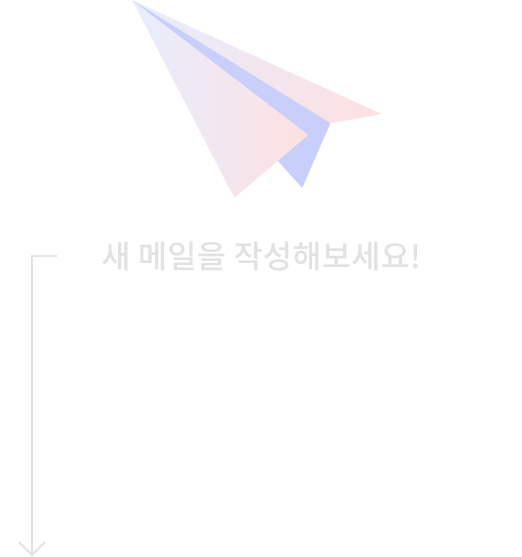
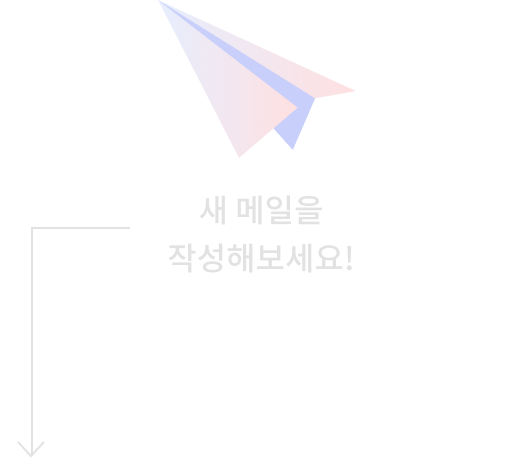
feat:업데이트 다운로드 진행 화면 추가

diff --git a/App.js b/App.js
@@ -14,6 +14,7 @@ import SplashScreen from 'react-native-splash-screen';
 import {MenuProvider} from 'react-native-popup-menu';
 import {QueryClient, QueryClientProvider} from 'react-query';
 import codePush from 'react-native-code-push';
+import FastImage from 'react-native-fast-image';
 
 import {
   notificationListener,
@@ -24,6 +25,8 @@ import AppContext from './AppContext';
 import Root from './navigation/Root';
 import {getCredentials} from './Credentials';
 import ForegroundHandler from './ForegroundHandler';
+
+import CodePushUpdate from './assets/images/CodePushUpdate.png';
 
 const customTextProps = {
   style: {
@@ -166,36 +169,68 @@ const App = () => {
         <View
           style={{
             flex: 1,
-            backgroundColor: 'rgba(0,0,0,0.4)',
+            backgroundColor: 'rgba(55,55,55,0.3)',
             justifyContent: 'center',
             alignItems: 'center',
           }}>
           <View
             style={{
               backgroundColor: '#fff',
-              borderRadius: 8,
-              padding: 16,
+              width: 330,
+              height: 334,
+              borderRadius: 15,
+              justifyContent: 'center',
+              alignItems: 'center',
             }}>
-            <Text>업데이트중...</Text>
-            <View>
-              <Text>{`${(Number(progress.receivedBytes) / 1048576).toFixed(
-                2,
-              )}MB/${(Number(progress.totalBytes) / 1048576).toFixed(
-                2,
-              )}MB`}</Text>
-              <View style={{alignItems: 'center'}}>
-                <ActivityIndicator
-                  style={{marginVertical: 8}}></ActivityIndicator>
-                <Text>
-                  {(
-                    (Number(progress?.receivedBytes) /
-                      Number(progress?.totalBytes)) *
-                    100
-                  ).toFixed(0)}
-                  %
-                </Text>
-              </View>
-            </View>
+            <Text
+              style={{
+                fontFamily: 'NotoSansKR-Bold',
+                fontSize: 18,
+                color: '#3c3c3c',
+                includeFontPadding: false,
+              }}>
+              업데이트 중입니다.
+            </Text>
+
+            <Text
+              style={{
+                fontFamily: 'NotoSansKR-Medium',
+                fontSize: 15,
+                color: '#D2D2D2',
+                includeFontPadding: false,
+              }}>
+              <Text
+                style={{
+                  color: '#828282',
+                }}>
+                {`${(Number(progress.receivedBytes) / 1048576).toFixed(2)}`}
+                &nbsp;
+              </Text>
+              <Text
+                style={{
+                  color: '#BEBEBE',
+                }}>
+                {`MB / ${(Number(progress.totalBytes) / 1048576).toFixed(2)}`}
+                &nbsp;
+              </Text>
+              MB
+            </Text>
+            <FastImage
+              style={{width: 157, height: 148, marginTop: 23, marginBottom: 13}}
+              source={CodePushUpdate}></FastImage>
+            <Text
+              style={{
+                fontFamily: 'NotoSansKR-Bold',
+                fontSize: 26,
+                color: '#4562F1',
+              }}>
+              {(
+                (Number(progress?.receivedBytes) /
+                  Number(progress?.totalBytes)) *
+                100
+              ).toFixed(0)}
+              <Text style={{fontSize: 16, color: '#BEBEBE'}}>&nbsp;%</Text>
+            </Text>
           </View>
         </View>
       </Modal>

diff --git a/Screen/Author/Message/Message.js b/Screen/Author/Message/Message.js
@@ -222,9 +222,12 @@ const Message = ({navigation: {setOptions}, route: {params}}) => {
             {messagePartnerData ? messagePartnerData.partnerNickname : ''}
           </Text>
         </View>
-        <TouchableWithoutFeedback>
-          <RenderInfoItem />
-        </TouchableWithoutFeedback>
+        {messagePartnerData &&
+        messagePartnerData.partnerNickname === '탈퇴한 회원 입니다.' ? null : (
+          <TouchableWithoutFeedback>
+            <RenderInfoItem />
+          </TouchableWithoutFeedback>
+        )}
       </View>
       {/* body */}
       {messagePartnerData ? (
@@ -252,37 +255,40 @@ const Message = ({navigation: {setOptions}, route: {params}}) => {
           }}
         />
       )}
-      <FloatingAction
-        actions={[
-          {
-            icon: (
-              <FastImage
-                style={{
-                  width: 22,
-                  height: 22,
-                }}
-                source={PenceilWriting}
-              />
-            ),
-            name: 'bt_search',
-            position: 1,
-            buttonSize: 50,
-          },
-        ]}
-        color="#FFF"
-        distanceToEdge={{vertical: 56, horizontal: 17}}
-        buttonSize={50}
-        shadow={{
-          shadowOpacity: 0.12,
-          shadowColor: '#000000',
-          shadowRadius: 23,
-        }}
-        overrideWithAction={true}
-        animated={false}
-        onPressItem={() => {
-          onPressWritingPage();
-        }}
-      />
+      {messagePartnerData &&
+      messagePartnerData.partnerNickname === '탈퇴한 회원 입니다.' ? null : (
+        <FloatingAction
+          actions={[
+            {
+              icon: (
+                <FastImage
+                  style={{
+                    width: 22,
+                    height: 22,
+                  }}
+                  source={PenceilWriting}
+                />
+              ),
+              name: 'bt_search',
+              position: 1,
+              buttonSize: 50,
+            },
+          ]}
+          color="#FFF"
+          distanceToEdge={{vertical: 56, horizontal: 17}}
+          buttonSize={50}
+          shadow={{
+            shadowOpacity: 0.12,
+            shadowColor: '#000000',
+            shadowRadius: 23,
+          }}
+          overrideWithAction={true}
+          animated={false}
+          onPressItem={() => {
+            onPressWritingPage();
+          }}
+        />
+      )}
     </View>
   );
 };

diff --git a/API/signUpAPI.js b/API/signUpAPI.js
@@ -80,7 +80,7 @@ export const SignUpAPI = {
     console.log('로그인');
     console.log(socialType, socialId);
     var fcmDeviceToken = await AsyncStorage.getItem('fcmToken');
-
+    console.log(fcmDeviceToken);
     try {
       const response = await fetch(`${BASE_URL}/api/v1/member/auth/login`, {
         method: 'post',
@@ -90,7 +90,7 @@ export const SignUpAPI = {
         body: JSON.stringify({
           socialType: socialType,
           socialId: socialId,
-          fcmDeviceToken: fcmDeviceToken ? fcmDeviceToken : '',
+          fcmDeviceToken: fcmDeviceToken,
         }),
         // body: JSON.stringify({
         //   socialType: 'APPLE',
@@ -140,7 +140,7 @@ export const SignUpAPI = {
           nickName: nickName,
           imgUrl: imgUrl,
           phoneNumber: phoneNumber,
-          fcmDeviceToken: fcmDeviceToken ? fcmDeviceToken : '',
+          fcmDeviceToken: fcmDeviceToken,
         }),
         // body: JSON.stringify({
         //   socialType: 'APPLE',

diff --git a/Screen/Reader/Recommend/ReaderRecommendList.js b/Screen/Reader/Recommend/ReaderRecommendList.js
@@ -71,6 +71,7 @@ const ReaderRecommendList = ({modalVisible, setModalVisible, allSelect}) => {
 
   //구독하기 버튼 클릭
   const onPressSubscribe = async writerId => {
+    console.log(writerId);
     var result = await ReaderAPI.subscribing({writerId: writerId});
     if (result) await queryClient.refetchQueries(['AuthorList']);
     await queryClient.refetchQueries(['SubscribeAuthorList']);

diff --git a/Screen/SignUp/SelfAuth.js b/Screen/SignUp/SelfAuth.js
@@ -375,7 +375,7 @@ const SelfAuth = ({navigation: {setOptions}, route: {params}}) => {
           paddingTop: 5,
         }}>
         <TouchableOpacity
-          // disabled={!confirmSuccess && !checkbox}
+          disabled={!confirmSuccess && !checkbox}
           onPress={goNextScreen}
           style={
             confirmSuccess && checkbox

diff --git a/Screen/Reader/Mail/ReaderMailBody.js b/Screen/Reader/Mail/ReaderMailBody.js
@@ -475,7 +475,7 @@ const ReaderMailBody = () => {
                 <FastImage
                   style={{
                     width: 261,
-                    height: 317,
+                    height: 258,
                   }}
                   source={SubscribeMail}
                 />

diff --git a/Screen/Author/Mail/AuthorMailBody.js b/Screen/Author/Mail/AuthorMailBody.js
@@ -271,7 +271,7 @@ const AuthorMailBody = () => {
                 <FastImage
                   style={{
                     width: 261,
-                    height: 278,
+                    height: 228,
                   }}
                   source={WriteMail}
                 />

diff --git a/API/ReaderAPI.js b/API/ReaderAPI.js
@@ -134,6 +134,7 @@ export const ReaderAPI = {
           },
         },
       );
+      console.log(response);
       if (response.status === 200) return true;
       return false;
     } catch (e) {
